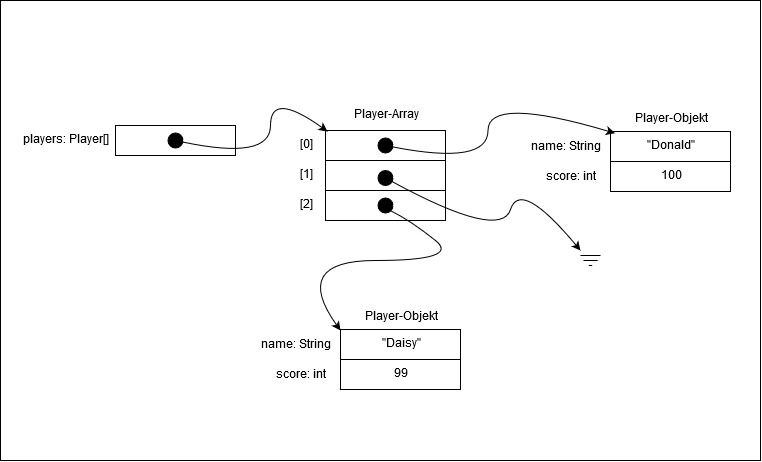
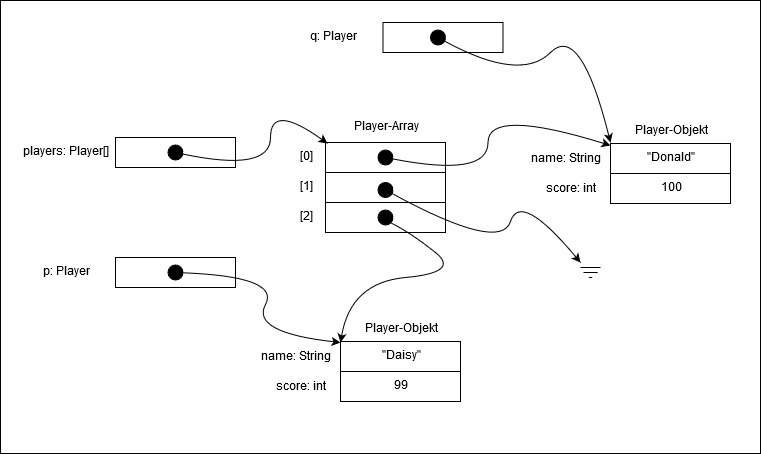
Modul 226A - Kompetenzen 2.1, 2.2, 3.3, 4.1, 4,2 aktualisiert

diff --git a/Modul 226A/Projekte/bank/src/bank/KontoTest.java b/Modul 226A/Projekte/bank/src/bank/KontoTest.java
@@ -1,0 +1,103 @@
+package bank;
+
+import static org.junit.Assert.assertEquals;
+
+import org.junit.Test;
+
+public class KontoTest {
+	Kunde inhaber = new Kunde("Meier", "Hans", 1);
+	private Konto konto;
+	
+	@Test
+	public void einzahlenInt() {
+		konto = new Konto(0.1, inhaber);
+		konto.einzahlen(3500);
+		assertEquals(3500, konto.getSaldo(), 0);
+	}
+	
+	@Test
+	public void einzahlenKleinerBetrag() {
+		konto = new Konto(0.1, inhaber);
+		konto.einzahlen(0.01);
+		assertEquals(0.01, konto.getSaldo(), 0);
+	}
+	
+	@Test
+	public void einzahlenSehrGrosserBetrag() {
+		konto = new Konto(0.1, inhaber);
+		konto.einzahlen(100000000000.0);
+		assertEquals(100000000000.0, konto.getSaldo(), 0);
+	}
+	
+	@Test
+	public void einzahlenRunden() {
+		konto = new Konto(0.1, inhaber);
+		konto.einzahlen(0.001);
+		assertEquals(0.00, konto.getSaldo(), 0);
+		konto.einzahlen(0.009);
+		assertEquals(0.01, konto.getSaldo(), 0);
+	}
+	
+	@Test
+	public void verzinsenErlaubteAnzahlTage() {
+		konto = new Konto(0.1, inhaber);
+		konto.einzahlen(1000);
+		konto.verzinsen(73);
+		assertEquals(1020, konto.getSaldo(), 0);
+	}
+	
+	@Test
+	public void verzinsenNegativeAnzahlTage() {
+		konto = new Konto(0.1, inhaber);
+		konto.einzahlen(1000);
+		konto.verzinsen(-73);
+		assertEquals(1000, konto.getSaldo(), 0);
+	}
+	
+	@Test
+	public void verzinsen0Tage() {
+		konto = new Konto(0.1, inhaber);
+		konto.einzahlen(1000);
+		konto.verzinsen(0);
+		assertEquals(1000, konto.getSaldo(), 0);
+	}
+	
+	@Test
+	public void verzinsenMaximaleTage() {
+		konto = new Konto(0.1, inhaber);
+		konto.einzahlen(1000);
+		konto.verzinsen(365);
+		assertEquals(1100, konto.getSaldo(), 0);
+	}
+	
+	@Test(expected = IllegalStateException.class)
+	public void verzinsenZuvieleTage() {
+		konto = new Konto(0.1, inhaber);
+		konto.einzahlen(1000);
+		konto.verzinsen(366);
+	}
+	
+	@Test
+	public void verzinsenMitNegativemZins() {
+		konto = new Konto(-0.1, inhaber);
+		konto.einzahlen(1000);
+		konto.verzinsen(365);
+		assertEquals(900, konto.getSaldo(), 0);
+	}
+	
+	@Test
+	public void verzinsenZinsWirdHalbiert() {
+		konto = new Konto(0.1, inhaber);
+		konto.einzahlen(100000);
+		konto.verzinsen(365);
+		assertEquals(105000, konto.getSaldo(), 0);
+	}
+	
+	@Test
+	public void verzinsenKeinZins() {
+		konto = new Konto(0.1, inhaber);
+		konto.einzahlen(1000000);
+		konto.verzinsen(365);
+		assertEquals(1000000, konto.getSaldo(), 0);
+	}
+}

diff --git a/Modul 226A/Projekte/bank/src/bank/Konto.java b/Modul 226A/Projekte/bank/src/bank/Konto.java
@@ -12,15 +12,18 @@ public class Konto {
 	}
 
 	public void einzahlen(double betrag) {
-		saldo += betrag;
+		if (betrag > 0)
+			saldo += Math.round(betrag * 100.0) / 100.0;
 	}
 
 	public void verzinsen(int anzahlZuVerszinsendeTage) {
-		double zins = saldo * zinssatz * anzahlZuVerszinsendeTage / 365;
-		if (saldo > 50000 && saldo <= 500000) {
-			saldo += zins / 2;
-		} else if (saldo < 50000) {
-			saldo += zins;
+		if (saldo <= 500000 && anzahlZuVerszinsendeTage > 0) {
+			if (anzahlZuVerszinsendeTage <= 365) {
+				double zins = saldo * zinssatz * anzahlZuVerszinsendeTage / 365;
+				saldo += (saldo > 50000) ? (zins / 2) : zins;
+			} else {
+				throw new IllegalStateException("Verzinsung von maximal 1 Jahr erlaubt");
+			}
 		}
 	}
 

diff --git a/Modul 226A/Kompetenzen/4.2 - JUnit Testfall.md b/Modul 226A/Kompetenzen/4.2 - JUnit Testfall.md
@@ -1,0 +1,74 @@
+# Modul 226A - Klassenbasiert implementieren
+## Kompetenz 4.2
+Ich kann einen vollständigen JUnit4-Testfall für eine Java-Klasse schreiben.
+
+### JUnit Testfall
+
+Die nachfolgenden Testfälle sowie weitere Testfälle sind im Projekt [Bank](../Projekte/bank) zu finden.
+
+#### Testfallbeispiele der Klasse Konto
+###### Tests zur Methode "einzahlen(int betrag)":
+
+```
+	@Test
+	public void einzahlenKleinerBetrag() {
+		konto = new Konto(0.1, inhaber);
+		konto.einzahlen(0.01);
+		assertEquals(0.01, konto.getSaldo(), 0);
+	}
+
+    @Test
+	public void einzahlenSehrGrosserBetrag() {
+		konto = new Konto(0.1, inhaber);
+		konto.einzahlen(100000000000.0);
+		assertEquals(100000000000.0, konto.getSaldo(), 0);
+	}
+
+    @Test
+	public void einzahlenRunden() {
+		konto = new Konto(0.1, inhaber);
+		konto.einzahlen(0.001);
+		assertEquals(0.00, konto.getSaldo(), 0);
+		konto.einzahlen(0.009);
+		assertEquals(0.01, konto.getSaldo(), 0);
+	}
+```
+###### Tests zur Methode "verzinsen(int anzahlTage)":
+```
+	@Test
+	public void verzinsen73Tage() {
+		konto = new Konto(0.1, inhaber);
+		konto.einzahlen(1000);
+		konto.verzinsen(73);
+		assertEquals(1020, konto.getSaldo(), 0);
+	}
+
+	@Test
+	public void verzinsenNegativeAnzahlTage() {
+		konto = new Konto(0.1, inhaber);
+		konto.einzahlen(1000);
+		konto.verzinsen(-73);
+		assertEquals(1000, konto.getSaldo(), 0);
+	}
+
+    @Test(expected = IllegalStateException.class)
+	public void verzinsenZuvieleTage() {
+		konto = new Konto(0.1, inhaber);
+		konto.einzahlen(1000);
+		konto.verzinsen(366);
+	}
+```
+
+## Reflexion zur Erarbeitung dieser Kompetenz
+
+##### Welche neuen Erkenntnisse konnte ich gewinnen?
+- Das Schreiben von Tests hilft mir dabei, mögliche Fehler in meinem Code aufzudecken. Beim Schreiben der Tests habe ich Fehler entdeckt und folglich die entsprechenden Methoden korrigiert.
+
+##### Was habe ich gut gemacht?
+- Ich habe zu den beiden Methoden `einzahlen(int betrag)` und `verzinsen(int anzahlTage)` mehrere Tests geschrieben. Dabei habe ich mir genau überlegt, welche Werte den Methoden mitgegeben werden könnten und welche Resultate ich dabei erwarten würde.
+
+##### Welche Schwierigkeiten gab es?
+- Abgabe der Kompetenz folgt
+
+##### Was kann ich nächstes Mal besser machen?
+- Abgabe der Kompetenz folgt

diff --git a/Modul 226A/Kompetenzen/2.1 - UML Klassendiagramme.md b/Modul 226A/Kompetenzen/2.1 - UML Klassendiagramme.md
@@ -39,10 +39,11 @@ Die Abhängigkeit wird durch einen gestrichelten Pfeil mit Stereotyp dargestellt
 
 ##### Was habe ich gut gemacht?
 - Ich habe die Unterlagen zu dieser Kompetenz studiert und eine kleine Zusammenfassung zu einigen Punkten geschrieben.
-- Ich habe alle Aufgaben im Arbeitsblatt durchgearbeitet.
+- habe ein UML-Klassendiagramm von Hand gezeichnet.
+- Ich habe die Aufgaben im Arbeitsblatt durchgearbeitet.
 
 ##### Welche Schwierigkeiten gab es?
-- Abgabe der Kompetenz folgt
+- Bei der Abgabe dieser Kompetenz gab es keine Schwierigkeiten.
 
 ##### Was kann ich nächstes Mal besser machen?
-- Abgabe der Kompetenz folgt
+- Ich kann bei einer Assoziation die Multiplizität auf beiden Seiten angeben.

diff --git a/Modul 226A/Kompetenzen/4.1 - JUnit Tests.md b/Modul 226A/Kompetenzen/4.1 - JUnit Tests.md
@@ -31,10 +31,10 @@ Bei dieser Vorgehensweise werden sogenannte Äquivalenzklassen, eine Sammlung vo
 ## Reflexion zur Erarbeitung dieser Kompetenz
 
 ##### Welche neuen Erkenntnisse konnte ich gewinnen?
-- folgt
+- Ich habe 3 anerkannte Vorgehensweisen kennengelernt, die mir dabei helfen, meinen Code möglichst auf alle denkbaren Fehler zu testen.
 
 ##### Was habe ich gut gemacht?
-- folgt
+- Ich habe mir eigene Notizen zum Thema JUnit Tests gemacht, um diese bei Bedarf nachlesen zu können.
 
 ##### Welche Schwierigkeiten gab es?
 - Abgabe der Kompetenz folgt

diff --git a/Modul 226A/Kompetenzen/2.2 - Speicherdiagramme.md b/Modul 226A/Kompetenzen/2.2 - Speicherdiagramme.md
@@ -48,7 +48,7 @@ class TestPlayer {
 
 ##### Welche Schwierigkeiten gab es?
 - Ich musste genau schauen, wann etwas eine Variable und wann ein dazugehöriges Objekt gezeichnet wird.
-- Abgabe der Kompetenz folgt
+- Ich habe vergessen, die Variablen `p:Player` und `q:Player` vergessen ins Speicherdiagramm einzuzeichnen.
 
 ##### Was kann ich nächstes Mal besser machen?
-- Abgabe der Kompetenz folgt
+- Ich kann mich beim nächsten Mal besser Informieren, welche Angaben genau verlangt werden.

diff --git a/Modul 226A/Kompetenzen/3.3 - Klassen in Java.md b/Modul 226A/Kompetenzen/3.3 - Klassen in Java.md
@@ -57,7 +57,4 @@ Auf private Instanzvariablen kann von Ausserhalb der Klasse nicht zugegriffen we
 - Ich habe Kapitel 3.3 und Kapitel 5.1.1 im Buch "Grundkurs Java" gelesen.
 
 ##### Welche Schwierigkeiten gab es?
-- Abgabe der Kompetenz folgt
-
-##### Was kann ich nächstes Mal besser machen?
-- Abgabe der Kompetenz folgt
+- Bei der Abgabe der Kompetenz gab es keine Schwierigkeiten.
